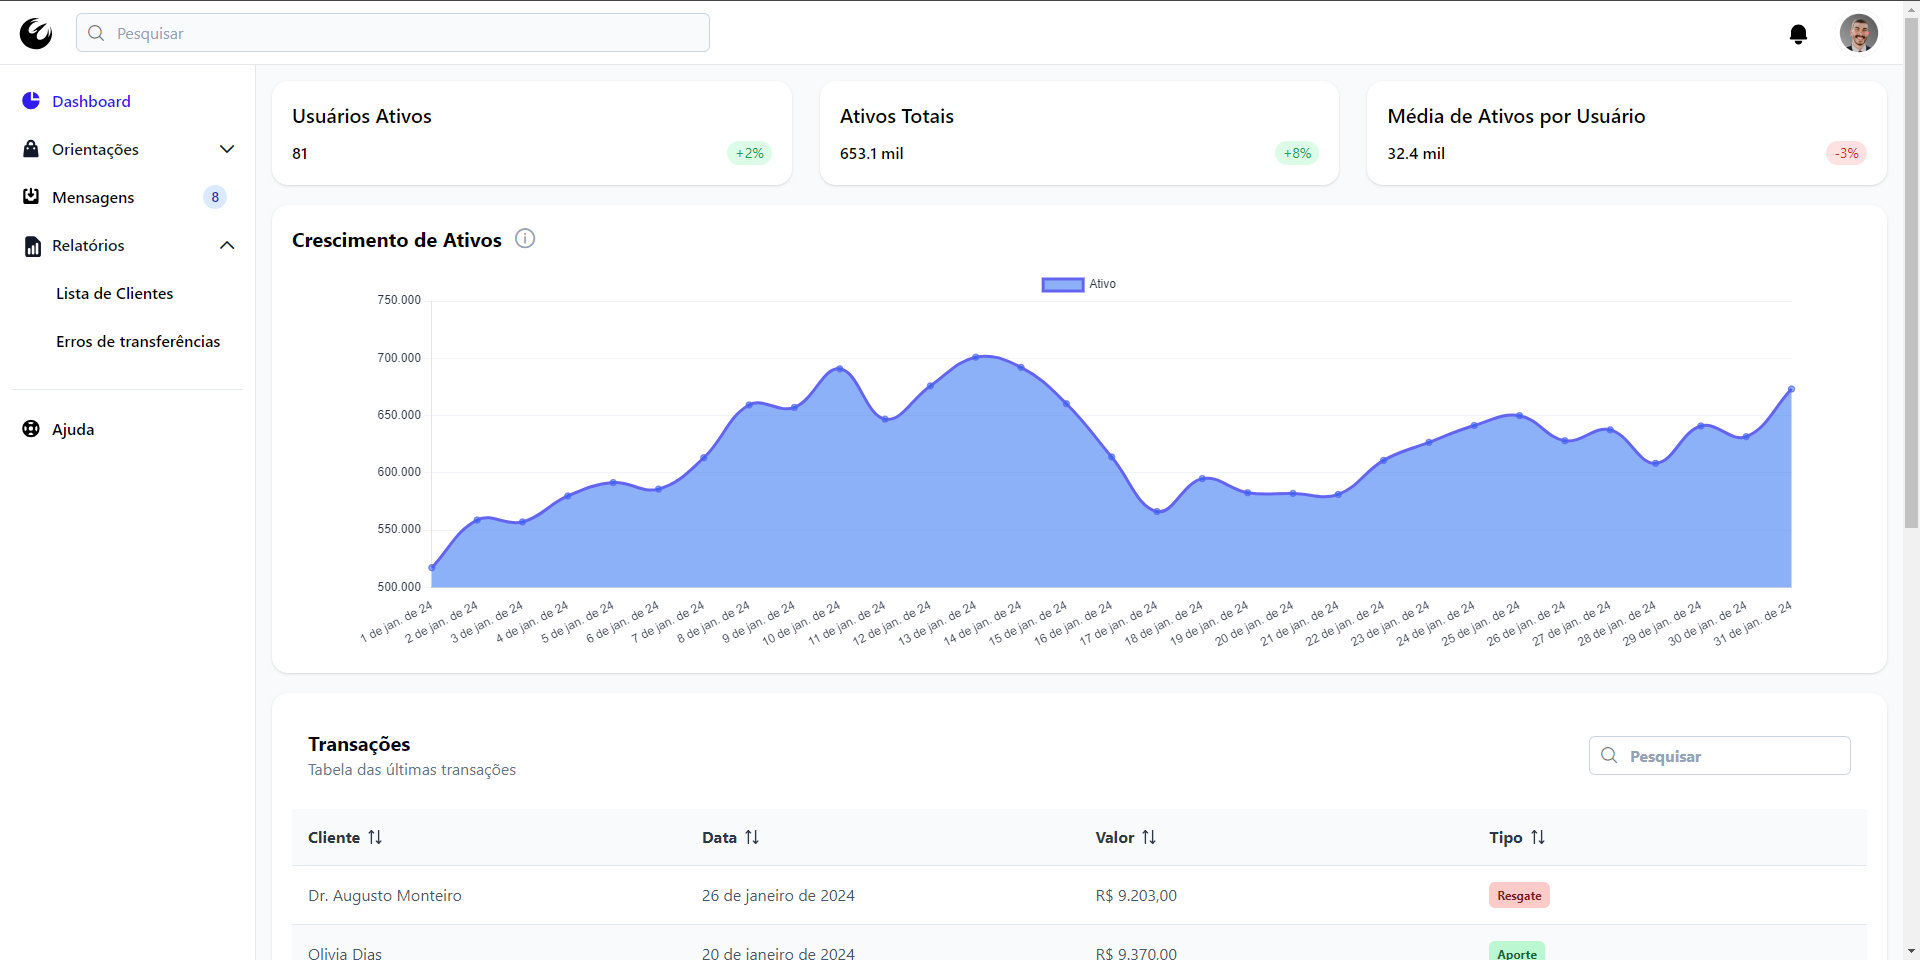
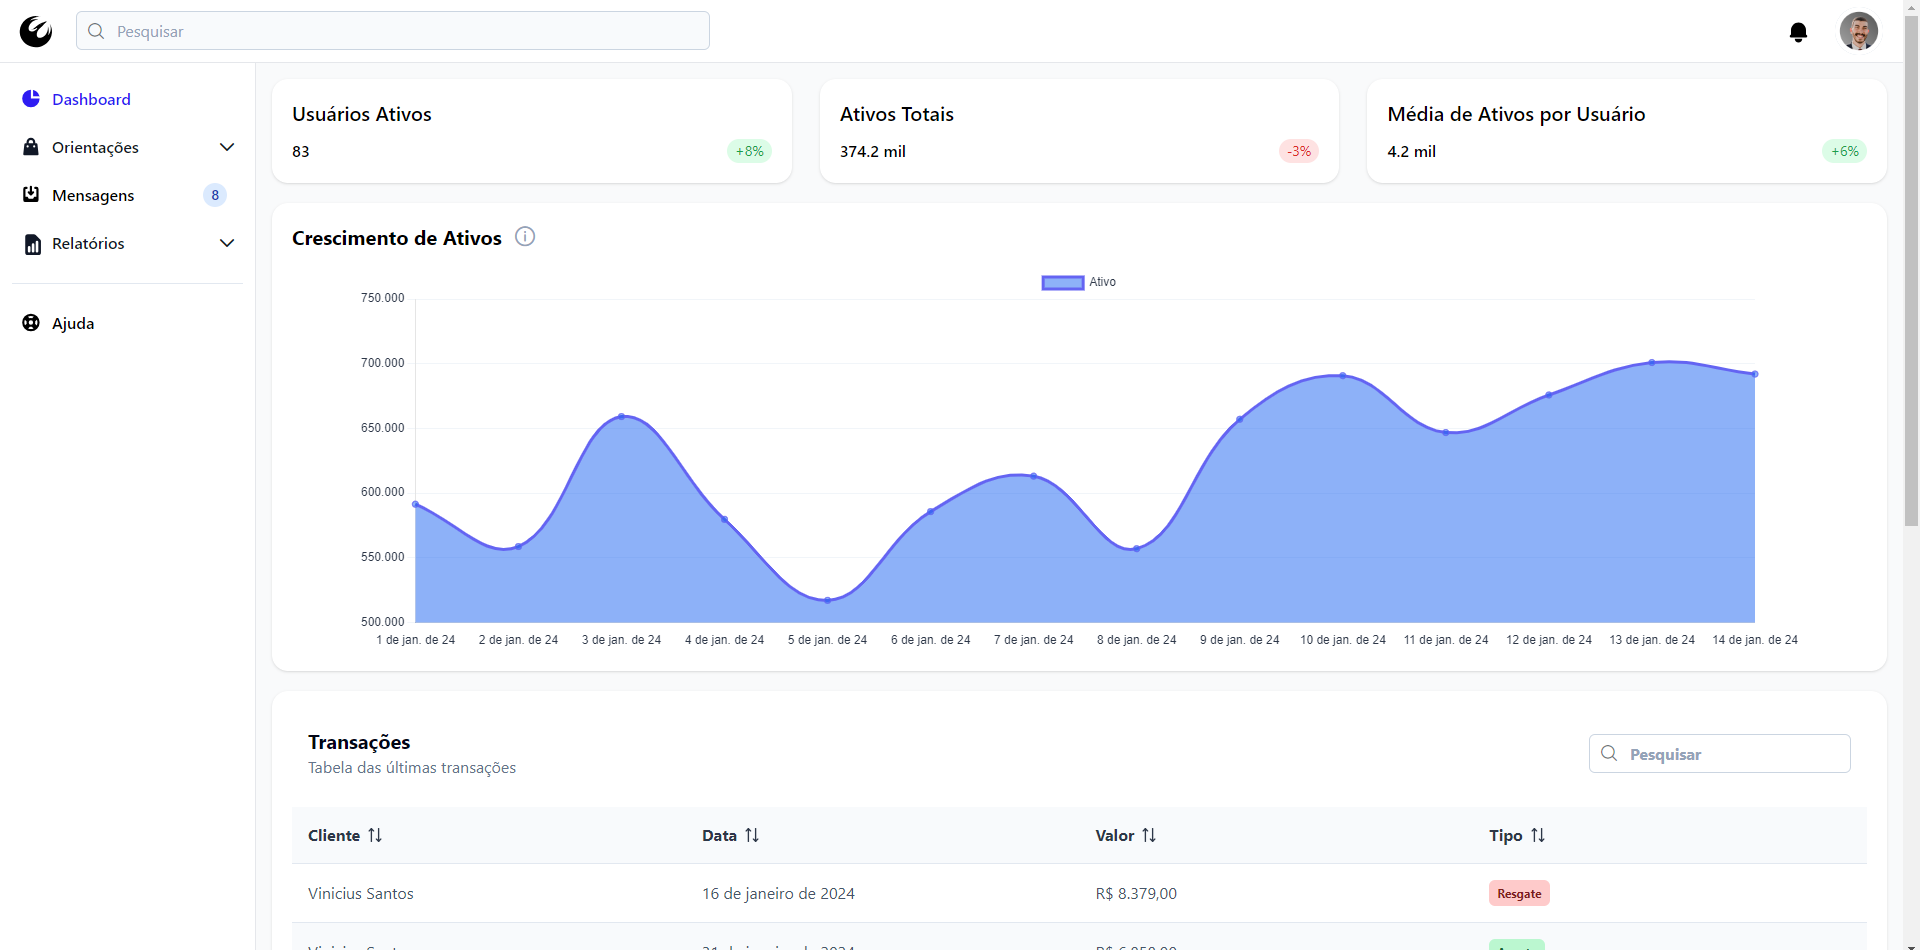
add

diff --git a/src/components/BrokerCharts.vue b/src/components/BrokerCharts.vue
@@ -3,17 +3,6 @@
     <!-- Broker charts -->
     <div class=" p-5 bg-white rounded-2xl shadow">
       <div class="text-xl font-bold">
-        Distribuição de Ativos por Parceiro
-        <i v-tooltip="'Patrimônio por Parceiro'" class="pi pi-info-circle text-surface-400 ml-2 size-1"></i>
-      </div>
-      <div class="flex items-center justify-between pt-8">
-        <div class="card w-full h-full">
-          <Chart type="bar" :data="setChartPatrimoniesData()" :options="setChartOptions()" class="h-30rem h-64" />
-        </div>
-      </div>
-    </div>
-    <div class=" p-5 bg-white rounded-2xl shadow">
-      <div class="text-xl font-bold">
         Distribuição de Carteiras por Parceiro
         <i v-tooltip="'Carteiras por Corretora'" class="pi pi-info-circle text-surface-400 ml-2"></i>
       </div>
@@ -21,6 +10,17 @@
 
         <div class="card w-full h-52">
           <Chart type="bar" :data="setChartClientCountData()" :options="setChartOptions()" class="h-30rem h-64" />
+        </div>
+      </div>
+    </div>
+    <div class=" p-5 bg-white rounded-2xl shadow">
+      <div class="text-xl font-bold">
+        Distribuição de Ativos por Parceiro
+        <i v-tooltip="'Patrimônio por Parceiro'" class="pi pi-info-circle text-surface-400 ml-2"></i>
+      </div>
+      <div class="flex items-center justify-between pt-8">
+        <div class="card w-full h-full">
+          <Chart type="bar" :data="setChartPatrimoniesData()" :options="setChartOptions()" class="h-30rem h-64" />
         </div>
       </div>
     </div>

diff --git a/src/components/ClientStats.vue b/src/components/ClientStats.vue
@@ -9,7 +9,7 @@
           {{ abbrNum(numberOfClients, 1) }}
         </div>
         <span class="flex items-center px-2 py-0.5 text-sm rounded-full text-green-600 bg-green-100">
-          +2%
+          +8%
         </span>
       </div>
     </div>
@@ -20,8 +20,8 @@
         <div class="text-base font-semibold">
           {{ abbrNum(totalEquality, 1) }}
         </div>
-        <span class="flex items-center px-2 py-0.5 text-sm rounded-full text-green-600 bg-green-100">
-          +8%
+        <span class="flex items-center px-2 py-0.5 text-sm rounded-full text-red-600 bg-red-100">
+          -3%
         </span>
       </div>
     </div>
@@ -32,8 +32,8 @@
         <div class="text-base font-semibold">
           {{ abbrNum(averageEquality, 1) }}
         </div>
-        <span class="flex items-center px-2 py-0.5 text-sm rounded-full text-red-600 bg-red-100">
-          -3%
+        <span class="flex items-center px-2 py-0.5 text-sm rounded-full text-green-600 bg-green-100">
+          +6%
         </span>
       </div>
     </div>

diff --git a/src/views/Dashboard.vue b/src/views/Dashboard.vue
@@ -32,7 +32,7 @@ const clientsSumary = ref([{}])
 const fetchData = async () => {
   isLoading.value = true
   try {
-    const response = await fetch('https://run.mocky.io/v3/4dbc7153-c982-493d-892e-1a812a0978f8');
+    const response = await fetch('https://run.mocky.io/v3/67ecbabf-d4a1-4e0f-865b-203cabf4a3f5');
     const data = await response.json();
 
     // Atualiza as refs com base nos dados recebidos da API

diff --git a/src/views/Messages.vue b/src/views/Messages.vue
@@ -1,5 +1,5 @@
 <template>
   <div class="grid gap-7 sm:grid-cols-2 lg:grid-cols-3">
-    Mensagens
+    <span class="font-bold text-2xl"> Mensagens</span>
   </div>
 </template>
